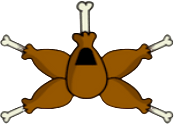
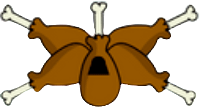
tied fighters mover across the screen in alternating directions

diff --git a/js/script.js b/js/script.js
@@ -4,10 +4,16 @@ const restartButton = document.querySelector('#restartButton')
 const pauseButton = document.querySelector('#pauseButton')
 const statusMessage = document.querySelector('#statusMessage')
 const timer = document.querySelector('#timer')
+
+// Global variables for speed 
 const WIN_TIME = 12
 const XWING_SPEED = 15
-// const randomSpeed = enemyArray.forEach(enemy => {(Math.floor(Math.random() * 20)+1)}
-const ENEMY_SPEED = 5
+const randomSpeed = Math.floor(Math.random() * 4)+1
+const tieFighterSpeed = 2
+const ASTEROID_SPEED = 10
+const COMET_METEOR_SPEED = 20
+
+// variables to select images
 const xWingImage = new Image()
     xWingImage.src = "../img/chickenXwing.png"
 const tieFighterImage = new Image()
@@ -37,7 +43,7 @@ restartButton.addEventListener('click', restartGame)
 let secondsInterval
 
 // Functions for buttons
-function startGame (){
+function startGame(){
     gameLoopInterval = setInterval(gameLoop, 60)
     secondsPassed = 0
     // interval for the runSeconds Function
@@ -52,11 +58,15 @@ function restartGame (){
     xWing.x = 425
     xWing.y = 750
     tieFighter1.x = 1000
-    tieFighter1.y = 450
-    tieFighter2.x = 1000
-    tieFighter3.y = 350
+    tieFighter1.y = 650
+    tieFighter2.x = 0
+    tieFighter2.y = 490
     tieFighter3.x = 1000
-    tieFighter3.y = 250
+    tieFighter3.y = 330
+    tieFighter4.x = 0
+    tieFighter4.y = 170
+    tieFighter5.x = 1000
+    tieFighter5.y = 10
     restartButton.style.display = 'none'
     secondsPassed = 0
     clearInterval(secondsInterval)
@@ -72,12 +82,13 @@ function pauseGame (){
 
 // Classes for on screen objects
 class gameObject {
-    constructor(image, x, y, width, height) {
+    constructor(image, x, y, width, height, id) {
         this.image = image
         this.x = x
         this.y = y
         this.width = width
-        this.height = height
+        this.height = height        
+        this.id = id
 
         this.alive = true
     }
@@ -90,36 +101,40 @@ class gameObject {
 // const screenBottom = parseFloat(getComputedStyle(canvas).width,10)
 let gameLoopInterval = {}
 // new game objects
-const xWing = new gameObject(xWingImage, 425, 800, 200, 150)
-const tieFighter1 = new gameObject(tieFighterImage, 1000, 750, 150, 100)
-const tieFighter2 = new gameObject(tieFighterImage, 1000, 650, 150, 100)
-const tieFighter3 = new gameObject(tieFighterImage, 1000, 550, 150, 100)
-const tieFighter4 = new gameObject(tieFighterImage, 1000, 450, 150, 100)
-const tieFighter5 = new gameObject(tieFighterImage, 1000, 350, 150, 100)
-const asteroid1 = new gameObject(asteroid1Image, 1000, 250, 100, 100)
-const asteroid2 = new gameObject(asteroid2Image, 1000, 450, 100, 100)
+const xWing = new gameObject(xWingImage, 425, 750, 200, 150)
+const tieFighter1 = new gameObject(tieFighterImage, 1000, 650, 150, 100, 0)
+const tieFighter2 = new gameObject(tieFighterImage, 0, 490, 150, 100, 1)
+const tieFighter3 = new gameObject(tieFighterImage, 1000, 330, 150, 100, 2)
+const tieFighter4 = new gameObject(tieFighterImage, 0, 170, 150, 100, 3)
+const tieFighter5 = new gameObject(tieFighterImage, 1000, 10, 150, 100, 4)
+const asteroid1 = new gameObject(asteroid1Image, 1000, 250, 100, 100, 0)
+const asteroid2 = new gameObject(asteroid2Image, 1000, 450, 100, 100, 1)
 const comet = new gameObject(cometImage, 1000, 50, 75, 250)
 const meteor = new gameObject(meteorImage, 1000, 5, 100, 225)
 // array of enemy objects
-const enemyArray = [tieFighter1, tieFighter2, tieFighter3, tieFighter4, tieFighter5, asteroid1, asteroid2, comet, meteor]
+const tieArray = [tieFighter1, tieFighter2, tieFighter3, tieFighter4, tieFighter5]
+
+const asteroidArray = [asteroid1, asteroid2]
 
 const pressedKeys = {}
 // Render gameObjects
 xWing.render()
  
+
+console.log(canvas)
 //  Handling Movement
 function xWingMovement(speed) {
     // logic for moving the player around
     if (pressedKeys.ArrowUp && xWing.y > 0) {
         xWing.y -= speed
     }
-    if (pressedKeys.ArrowDown && xWing.y < 900 - xWing.height) {
+    if (pressedKeys.ArrowDown && xWing.y < canvas.height - xWing.height) {
         xWing.y += speed
     }
-    if (pressedKeys.ArrowRight && xWing.x < 1000 - xWing.width) {
+    if (pressedKeys.ArrowRight && xWing.x < canvas.width - xWing.width) {
         xWing.x += speed
     }
-    if (pressedKeys.ArrowLeft && xWing.x > 0) {
+    if (pressedKeys.ArrowLeft && xWing.x > 5) {
         xWing.x -= speed
     }
 }
@@ -128,13 +143,22 @@ function xWingMovement(speed) {
 document.addEventListener('keydown', e => pressedKeys[e.key] = true)
 document.addEventListener('keyup', e => pressedKeys[e.key] = false)
 
-// handling AI movement
-function enemyMovement(speed, tieFighter) {
-    // logic for moving the AI across the screen
-    if (tieFighter.x >= 0 - tieFighter.width) {
-        tieFighter.x -= speed
-        // tieFighter.y += speed
-    }
+// controls tieFighter movement even object move right to left and odd objects move left to right 
+function enemyMovement(speed) {
+        // logic for moving the AI across the screen
+    tieArray.forEach(tieFighter => {
+        if (tieFighter.x >= 0 - tieFighter.width && tieFighter.id % 2 === 0) {
+            tieFighter.x -= Math.floor(Math.random() * 4)+1
+        } else if(tieFighter.x >= 0 - tieFighter.width && tieFighter.id % 2 === 1) {
+            tieFighter.x += Math.floor(Math.random() * 4)+1
+        } else {
+            ctx.clearRect(0, 0, canvas.width, canvas.height)
+        }
+    })
+}
+
+function objectMovement(speed) {
+    asteroidArray.forEach
 }
 
 // set variable to count seconds 
@@ -150,8 +174,8 @@ function gameLoop(){
     ctx.clearRect(0, 0, canvas.width, canvas.height)
     timer.innerText = `Timer: ${secondsPassed} Seconds`
     //if the xwing hits an object end the game 
-    enemyArray.forEach(enemy => {
-        if(detectCollision(xWing,enemy)) {
+    tieArray.forEach(tieFighter => {
+        if(detectCollision(xWing,tieFighter)) {
         xWing.alive = false
         // display you died message 
         statusMessage.innerText = ('You Died')
@@ -161,8 +185,8 @@ function gameLoop(){
         }else if(secondsPassed > WIN_TIME) {
             statusMessage.innerText = 'You Won'
         }
-        // enemyMovement(ENEMY_SPEED)
-        enemyMovement(ENEMY_SPEED, enemy)
+        // tieFighterMovement(tieFighterSpeed)
+        enemyMovement(tieFighterSpeed, tieFighter)
     })
     // pass the handle movement function and give speed setting
     xWingMovement(XWING_SPEED)
